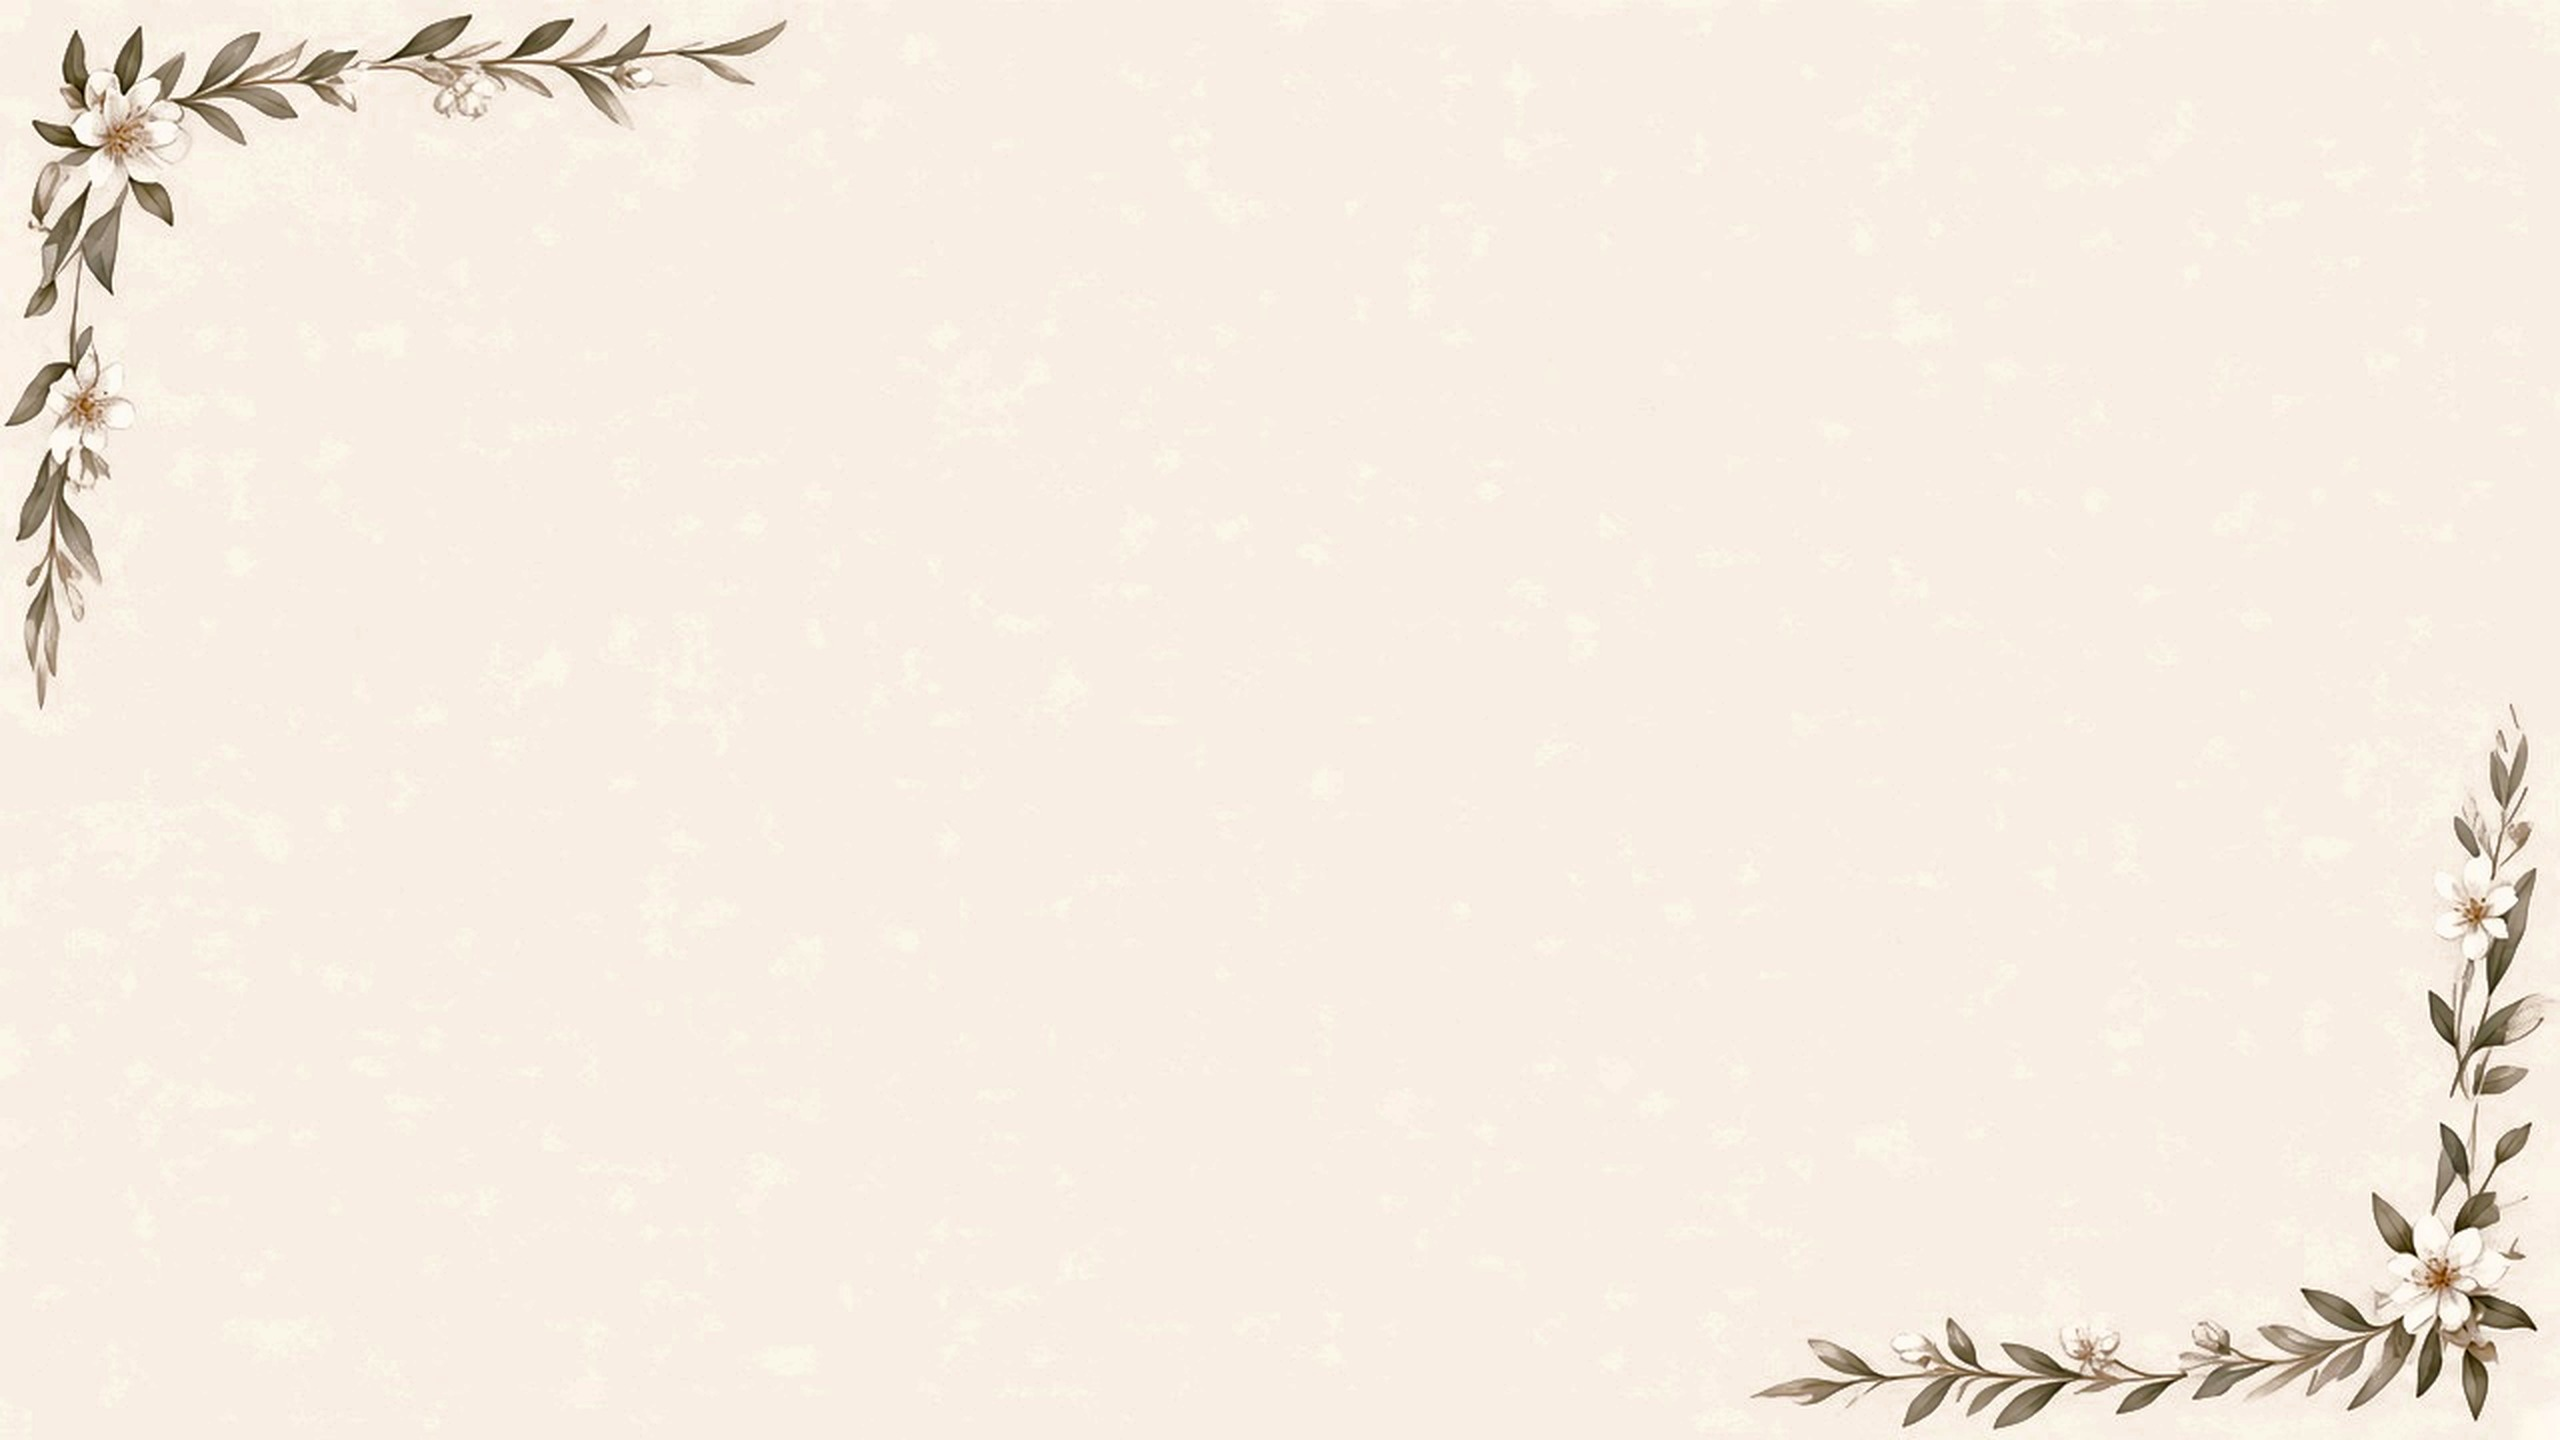
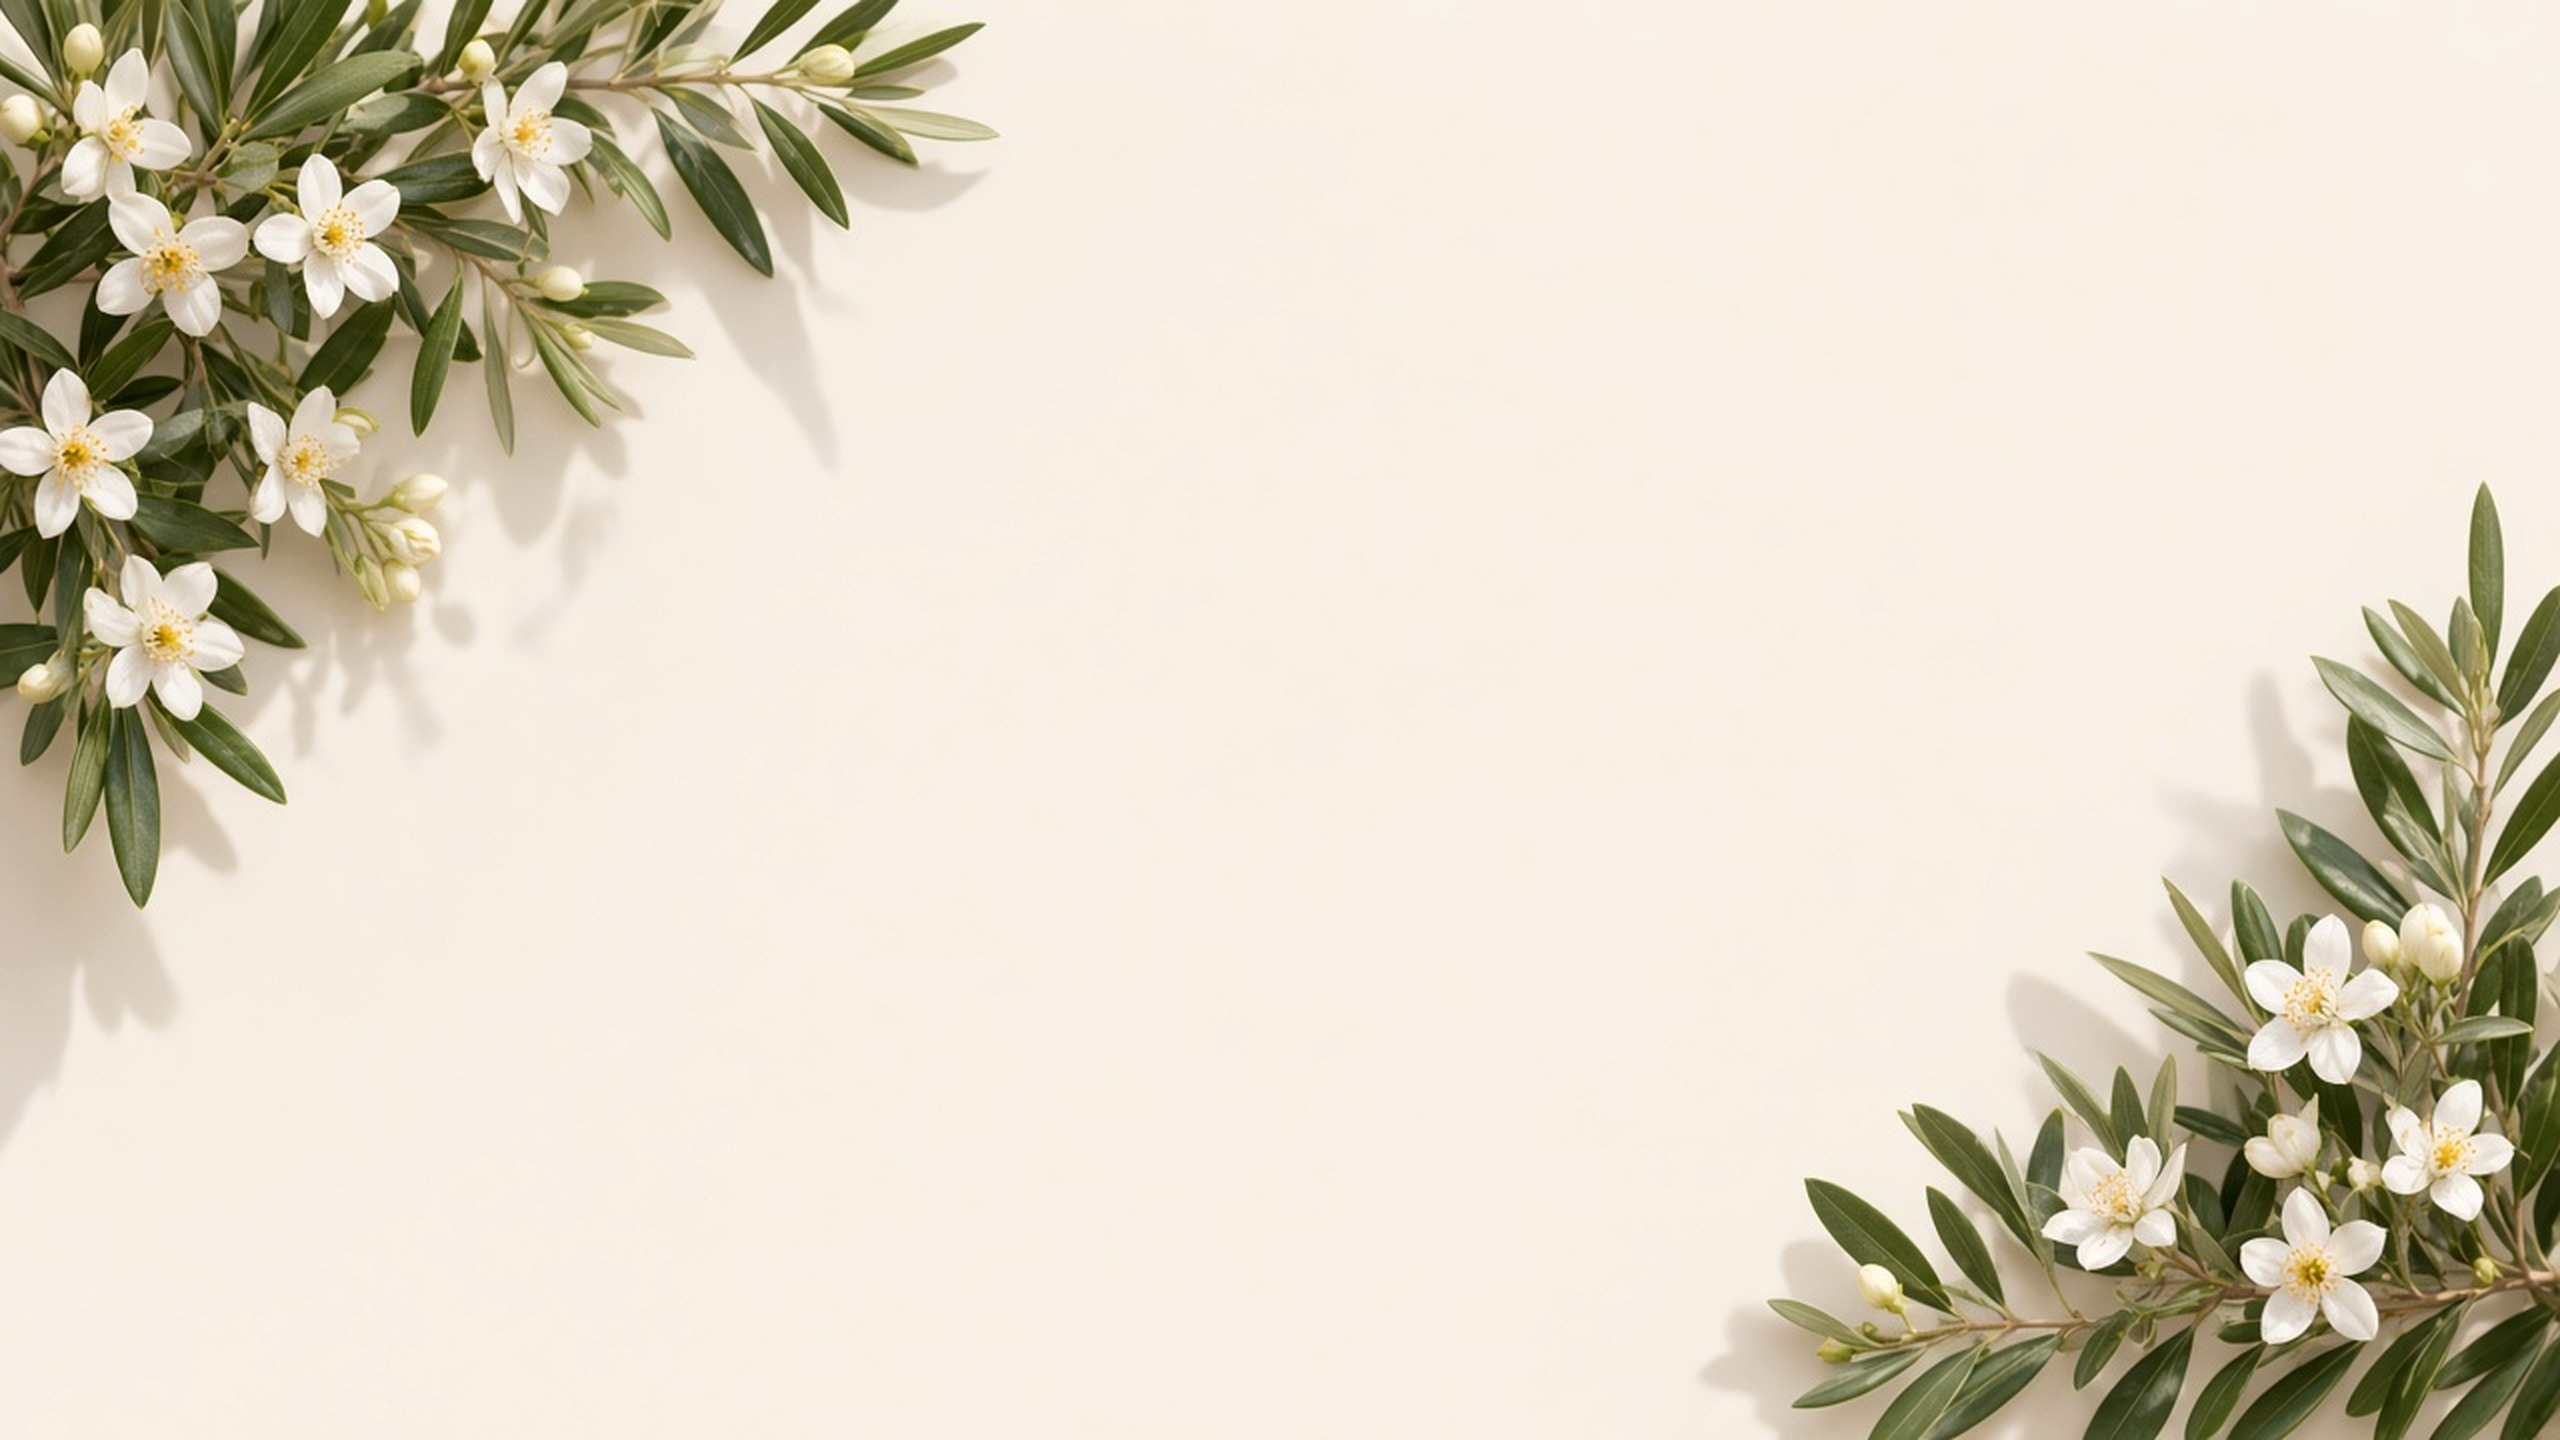
Revert About flora to pre-minimal olive jasmine art
Undo the watercolor/minimal frame treatment and restore the fuller
olive-and-jasmine corner illustration as the About section backdrop.

Changed region(s): [[0.0, 0.0, 0.4062, 0.7812], [0.6562, 0.3438, 1.0, 1.0]]

diff --git a/src/styles/sections.css b/src/styles/sections.css
@@ -118,31 +118,20 @@
   padding-block: clamp(5.5rem, 12vw, 9.5rem);
 }
 
-.about__flora {
+.about__backdrop {
   position: absolute;
+  inset: 0;
   z-index: 0;
   pointer-events: none;
   user-select: none;
-  filter: drop-shadow(0 14px 24px rgba(5, 5, 5, 0.06));
 }
 
-.about__flora img {
-  display: block;
+.about__backdrop img {
   width: 100%;
-  height: auto;
+  height: 100%;
+  object-fit: contain;
+  object-position: center;
   max-width: none;
-}
-
-.about__flora--plants {
-  top: -2%;
-  left: -2%;
-  width: clamp(15rem, 38vw, 34rem);
-}
-
-.about__flora--flowers {
-  right: -2%;
-  bottom: -3%;
-  width: clamp(14rem, 34vw, 30rem);
 }
 
 .about__content {
@@ -213,18 +202,6 @@
 
   .about__content {
     gap: 1.15rem;
-  }
-
-  .about__flora--plants {
-    width: min(70vw, 17rem);
-    top: -1%;
-    left: -7%;
-  }
-
-  .about__flora--flowers {
-    width: min(64vw, 15.5rem);
-    right: -8%;
-    bottom: -2%;
   }
 }
 

diff --git a/index.html b/index.html
@@ -130,21 +130,12 @@
       </section>
 
       <section class="section about" id="about" aria-labelledby="about-heading">
-        <div class="about__flora about__flora--plants" aria-hidden="true" data-reveal="slide">
+        <div class="about__backdrop" aria-hidden="true" data-reveal="slide">
           <img
-            src="/assets/images/about-plants-corner.png"
+            src="/assets/images/about-concept-flora.jpg"
             alt=""
-            width="1400"
-            height="1000"
-            decoding="async"
-          />
-        </div>
-        <div class="about__flora about__flora--flowers" aria-hidden="true" data-reveal="slide">
-          <img
-            src="/assets/images/about-flowers-corner.png"
-            alt=""
-            width="1400"
-            height="1000"
+            width="2560"
+            height="1440"
             decoding="async"
           />
         </div>
